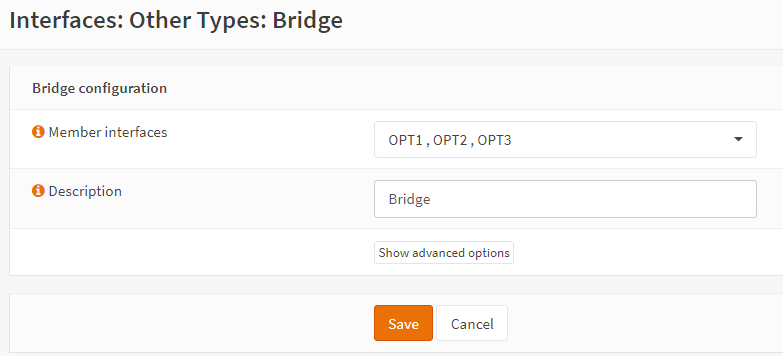
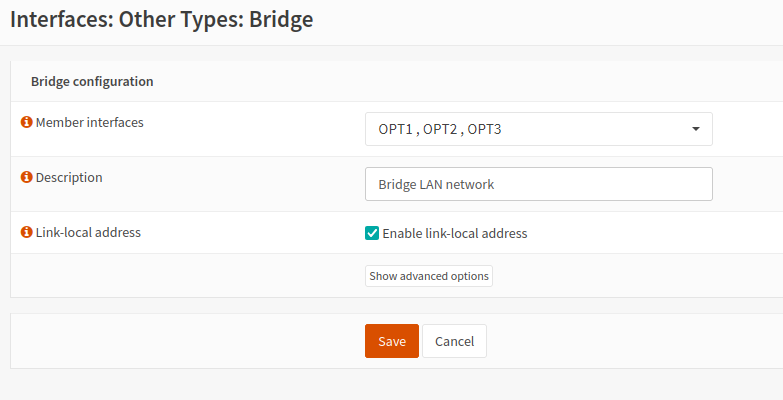
Explain link local address for ipv6 in bridge network

diff --git a/source/manual/how-tos/lan_bridge.rst b/source/manual/how-tos/lan_bridge.rst
@@ -59,8 +59,9 @@ select it and hit the '+' button to add an assignment, then click Save.
 
 **Step Five**
 -----------------
-Select :menuselection:`Interfaces --> Other Types --> Bridge` and add the interface created in Step Four to the bridge
-and Save, remember to check the new interface and ensure it is enabled as in Step Two.
+Select :menuselection:`Interfaces --> Other Types --> Bridge` and add the interface created in Step Four to the bridge. Also check 
+`Enable link-local address` checkbox in case you are using IPv6 and press Save.  
+Remember to check the new interface and ensure it is enabled as in Step Two.
 
 .. image:: images/lan_bridge_4.png
 	:width: 100%
